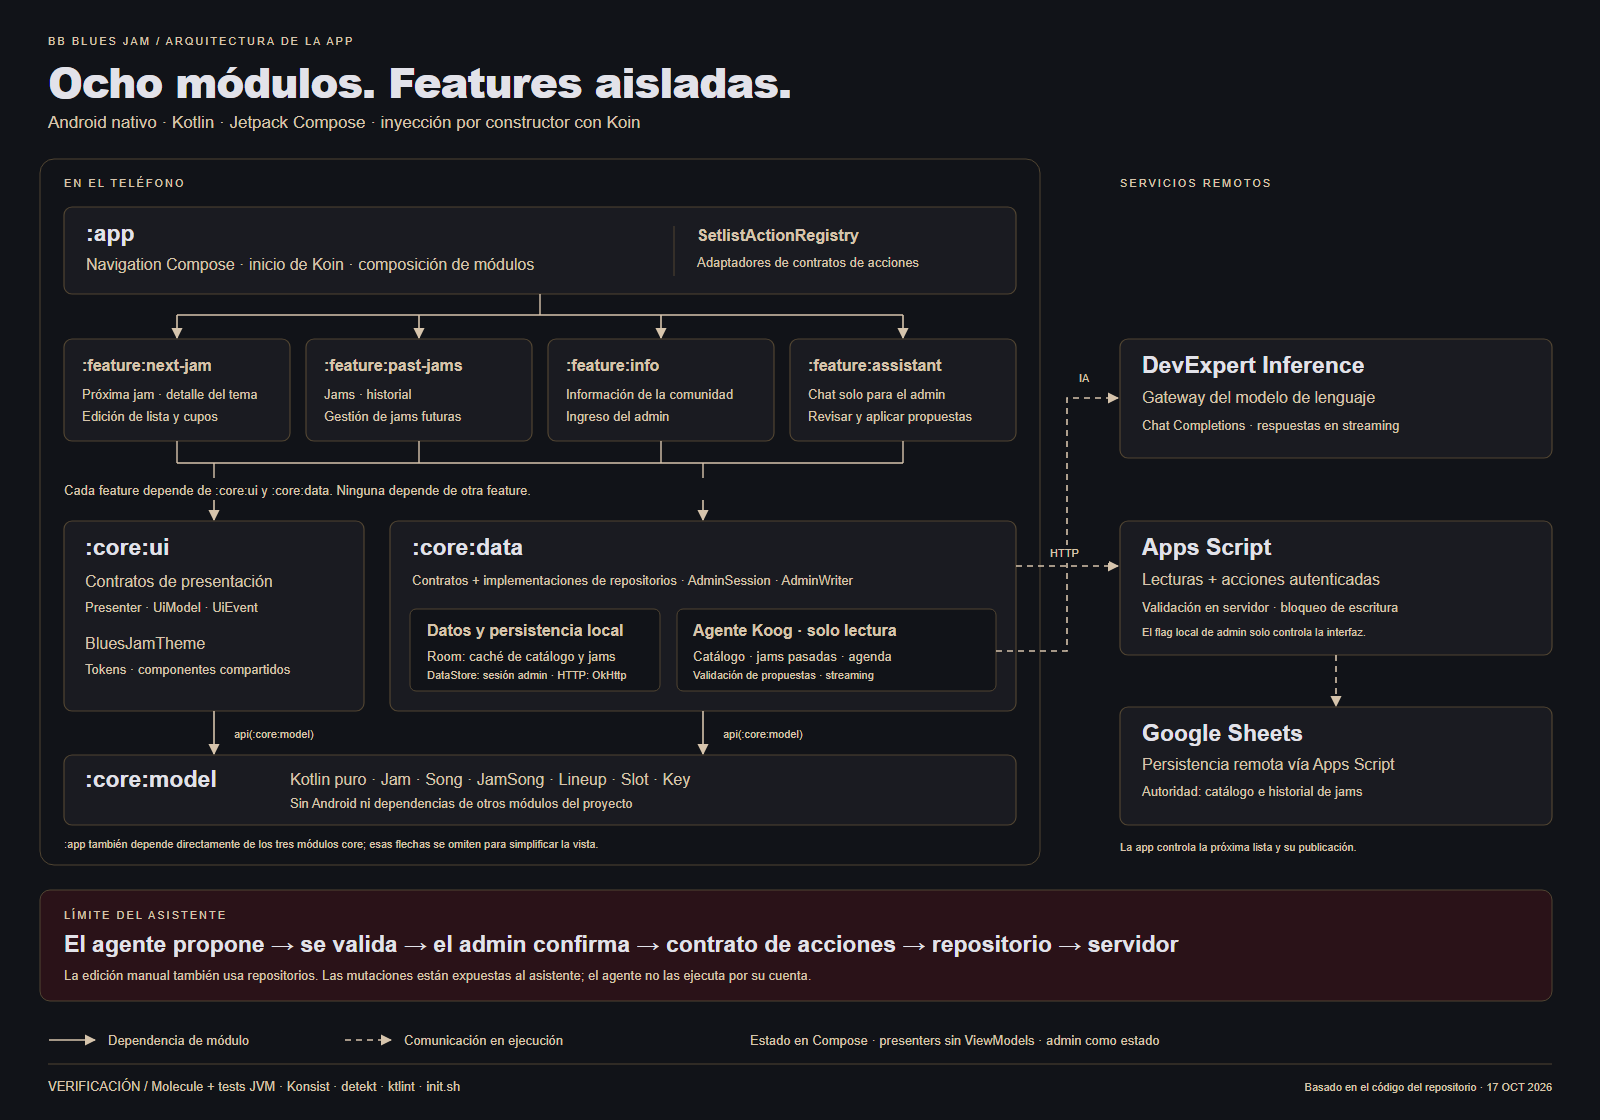
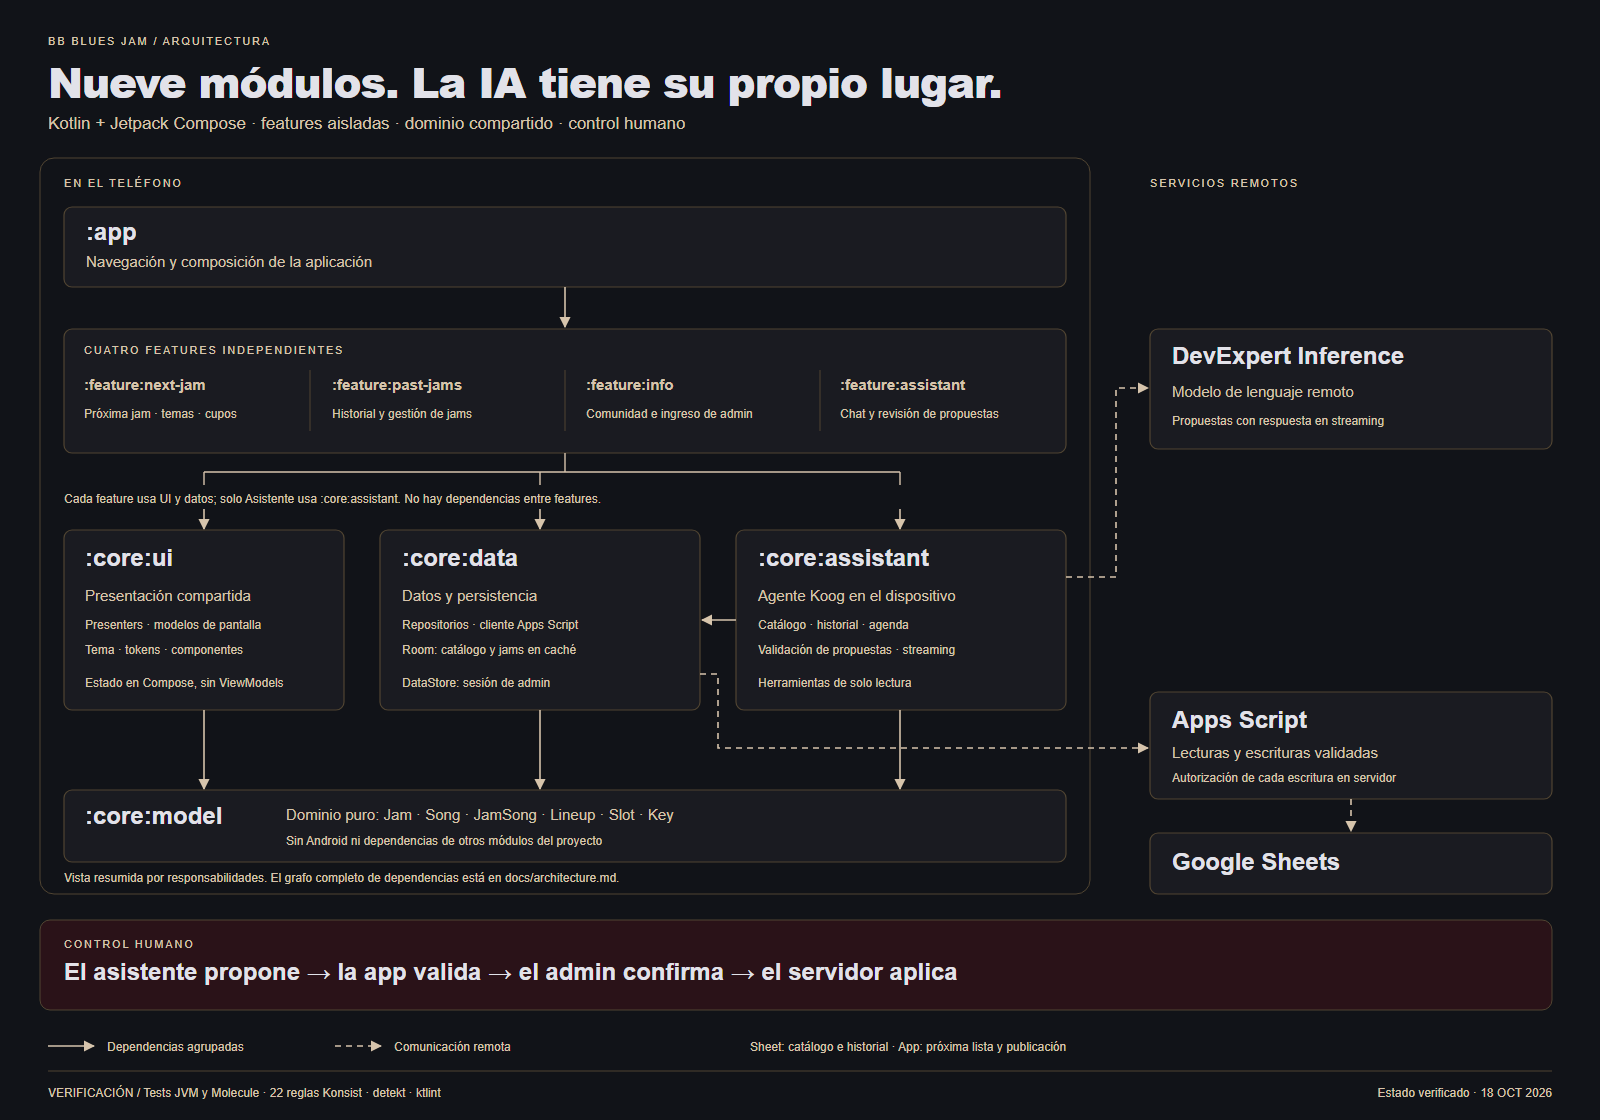
docs updates

diff --git a/PROGRESS.md b/PROGRESS.md
@@ -1,3 +1,41 @@
+## 18 October 2026 - presentation rebuilt after final code review
+
+Published successfully (owner-private) at https://bb-blues-jam-harness.ivorycow5.chatgpt.site; source 363c93f4b5eaf2f2ed63b394bbe3c3b9e101a42d, deployment appgdep_6ad530ff01e881918e899ba05e116775.
+
+Re-evaluated the source deliverable, feature graph, current nine-module architecture and final review evidence. Rebuilt the eight-slide presentation around the current cut: 75 slices (74 accepted, one scope-blocked), 74 specs, 1156 JVM testcases, 22 Konsist rules and over 240 commits. Added the final global review (nine findings, seven fix slices, feature API reduced from 122 declarations to 14), the new core:assistant module, updated ten-minute presenter notes, current feature-status chart and snapshot.json. Recreated the architecture SVG/PNG by responsibilities and principal flows; removed write-binding and DI implementation detail as requested. Slide 7 links to a bundled architecture SVG.
+
+Verification: CI=true ./init.sh exit 0, konsist/detekt/ktlint wired; JVM XML totals 1156 with one skipped live testcase. Feature counts/spec count and the exact nine-module dependency assertions passed. SVG XML parsed and headless Edge render reviewed with no text outside canvas. Presentation: node --check and diff check passed; 80 browser assertions passed across desktop/mobile, no runtime exceptions, eight printed pages. PDF and verification report regenerated. Product code and feature statuses unchanged.
+
+## 18 October 2026 - architecture artifacts regenerated
+
+Refreshed docs/architecture.md and SVG/PNG overview after remove-action-registry (44657af). Diagram now shows Koin write bindings in app, narrow core:data contracts delegating directly to SetlistRepository and no intermediate registry. Updated presentation slide 7, presenter notes and local PDF; documented all three read tools including jamSchedule. Original presentation metrics remain its historical snapshot. No product code or backlog statuses changed.
+
+Verification: Gradle dependency assertions passed for unchanged eight-module graph; removed app/actions directory absent and four current write bindings verified; SVG XML valid, rendered in headless Edge and visually reviewed with no text outside canvas. Presentation: 77 browser checks passed, no desktop/mobile horizontal overflow, no runtime exceptions, eight PDF pages. Local PDF and verification report regenerated. Publication remains on the previous version: Sites returned already-expired credentials on repeated requests, so no source push or deployment was possible; generated local artifacts are ready.
+
+## 17 October 2026 - application architecture diagrams
+
+Added docs/architecture.md with exact production-module dependency and runtime Mermaid diagrams, plus docs/diagrams/app-architecture.svg and .png for presentation. Overview reuses the app palette; documents eight product modules, isolated features, Compose presenters, Koin composition root, Room/DataStore, Apps Script/Sheets, read-only on-device Koog agent and confirmed proposal application through shared action contracts. Shows all three currently registered read tools, including jamSchedule. No app code or feature statuses changed.
+
+Verification: parsed Gradle dependencies for eight modules and asserted all four feature dependencies and core edges; SVG XML parsed; headless Edge render checked for text outside the canvas, none found, and visually reviewed. No product tests run for this documentation-only change.
+
+## 17 October 2026 - presenter notes for harness presentation
+
+Published successfully at https://bb-blues-jam-harness.ivorycow5.chatgpt.site (source 394218d10a978b860678b7568882db27265d28bc).
+
+Expanded all eight slides with a Spanish first-person presenter script, ten-minute timing plan, visual cues, transitions and source references. Full companion script: presentations/harness-ia/notas-presentador.md. Embedded notes open with N and start at the beginning; they share the audience screen, so the companion document can be used privately on a second device. Slide metrics retain the original presentation snapshot despite subsequent updates to the source deliverable. No Android code or feature statuses changed.
+
+Verification: node --check and git diff --check passed. Headless Edge passed 77 checks, including navigation and notes; desktop/mobile geometry unchanged, no runtime exceptions, eight printed pages.
+
+## 17 October 2026 - harness presentation ready
+
+Published owner-private with Sites: https://bb-blues-jam-harness.ivorycow5.chatgpt.site (deployment succeeded, version 1; source commit 2e279d5be40c3a6edb384194729bb2e26f4b7afa).
+
+Created presentations/harness-ia/: eight Spanish slides based on docs/entregable-harness-ia.md, with app tokens, bundled fonts/branding, real screenshots, diagrams, feature-status chart, keyboard/touch navigation, index, fullscreen and speaker notes. Works offline via dist/index.html; presentation.pdf has eight pages. Metrics retain the source deliverable snapshot. No Android code or backlog statuses changed.
+
+Verification: baseline CI=true ./init.sh exit 0; konsist/detekt/ktlint wired. node --check passed. Headless Edge: 77 assertions passed, eight slides, local assets/fonts, desktop at 1366x768/1440x900/1920x1080 without overflow, mobile at 390x844 without horizontal overflow, navigation/index/notes/restart, no runtime exceptions and eight-page PDF. Report: presentations/harness-ia/verification.json; checker: verify.mjs.
+
+
+
 ## 18 October 2026 - core-assistant-module accepted
 
 Code review finding 9. The Koog agent (18 files) and its 14 test files moved with `git mv` from `:core:data` (`com.bbbjam.core.data.assistant`) to the new `:core:assistant` module (`com.bbbjam.core.assistant`), which depends on `:core:model` and `:core:data` (only package lines and imports changed). New `assistantCoreModule` (`SetlistAssistant` single) listed in `startKoin`; `dataModule` lost the binding; `AssistantCredentials` stays bound in `:app`. `:core:data` has no Koog, Ktor or agent code (`rg "ai\.koog|io\.ktor" core/data` empty); `feature/assistant` and `app` depend on `:core:assistant`. `:core:assistant` uses the `bluesjam.android.data` convention, so its KSP plugin is applied with no processor (harmless; orchestrator decision, `build-logic` untouched). `AssistantLiveCallTest` now seeds a twelve-song catalog in code (it cannot read `Fixtures` or the mappers, which stay internal to `:core:data`), still opt-in and skipped by default; it was compiled, not run live, and a future live run is not byte-comparable with `docs/evidence/assistant-streaming/live-call.md`.
@@ -69,28 +107,6 @@ Organizer decision of 17 October 2026 (option A, amends D-13's second sentence).
 Verification: baseline `CI=true ./init.sh` exit 0, 1135 testcases; final exit 0, konsist/detekt/ktlint wired, 1124 testcases (1135 - 13 + 2), 19 Konsist rules unchanged. Red first: a wrong-argument mutant on the Mover binding fails the new test (`docs/evidence/remove-action-registry/red-mutant-wrong-argument.txt`), restored. Grep for the deleted names: 0 hits. Not run: device (not required).
 
 Independent validation: accepted on 17 October 2026 (gate rerun, 1124 testcases, own mutant on the mover binding red, docs and D-13 note reviewed).
-
-## 17 October 2026 - application architecture diagrams
-
-Added docs/architecture.md with exact production-module dependency and runtime Mermaid diagrams, plus docs/diagrams/app-architecture.svg and .png for presentation. Overview reuses the app palette; documents eight product modules, isolated features, Compose presenters, Koin composition root, Room/DataStore, Apps Script/Sheets, read-only on-device Koog agent and confirmed proposal application through shared action contracts. Shows all three currently registered read tools, including jamSchedule. No app code or feature statuses changed.
-
-Verification: parsed Gradle dependencies for eight modules and asserted all four feature dependencies and core edges; SVG XML parsed; headless Edge render checked for text outside the canvas, none found, and visually reviewed. No product tests run for this documentation-only change.
-
-## 17 October 2026 - presenter notes for harness presentation
-
-Published successfully at https://bb-blues-jam-harness.ivorycow5.chatgpt.site (source 394218d10a978b860678b7568882db27265d28bc).
-
-Expanded all eight slides with a Spanish first-person presenter script, ten-minute timing plan, visual cues, transitions and source references. Full companion script: presentations/harness-ia/notas-presentador.md. Embedded notes open with N and start at the beginning; they share the audience screen, so the companion document can be used privately on a second device. Slide metrics retain the original presentation snapshot despite subsequent updates to the source deliverable. No Android code or feature statuses changed.
-
-Verification: node --check and git diff --check passed. Headless Edge passed 77 checks, including navigation and notes; desktop/mobile geometry unchanged, no runtime exceptions, eight printed pages.
-
-## 17 October 2026 - harness presentation ready
-
-Published owner-private with Sites: https://bb-blues-jam-harness.ivorycow5.chatgpt.site (deployment succeeded, version 1; source commit 2e279d5be40c3a6edb384194729bb2e26f4b7afa).
-
-Created presentations/harness-ia/: eight Spanish slides based on docs/entregable-harness-ia.md, with app tokens, bundled fonts/branding, real screenshots, diagrams, feature-status chart, keyboard/touch navigation, index, fullscreen and speaker notes. Works offline via dist/index.html; presentation.pdf has eight pages. Metrics retain the source deliverable snapshot. No Android code or backlog statuses changed.
-
-Verification: baseline CI=true ./init.sh exit 0; konsist/detekt/ktlint wired. node --check passed. Headless Edge: 77 assertions passed, eight slides, local assets/fonts, desktop at 1366x768/1440x900/1920x1080 without overflow, mobile at 390x844 without horizontal overflow, navigation/index/notes/restart, no runtime exceptions and eight-page PDF. Report: presentations/harness-ia/verification.json; checker: verify.mjs.
 
 ## 17 October 2026 - admin-set-key song detail amendment accepted
 

diff --git a/docs/architecture.md b/docs/architecture.md
@@ -4,9 +4,11 @@ Verified against the module definitions, composition root, repository bindings a
 on 18 October 2026, after the code-review fixes that ended with `core-assistant-module` (commit
 `414ff69`). The presentation-ready
 overview is available as [SVG](diagrams/app-architecture.svg) and [PNG](diagrams/app-architecture.png).
-Solid arrows in that overview indicate module dependencies; dashed arrows indicate runtime HTTP
-communication. The overview groups repeated dependencies to keep it readable. The exact direct
-production-module dependencies are shown below.
+The overview presents responsibilities and principal dependencies, grouping the four features
+and repeated arrows. Dashed arrows indicate remote communication. It deliberately omits
+dependency-injection configuration and write-binding details. The exact direct production-module
+dependencies are shown below; the feature group in the overview does not mean that every feature
+depends on every core module.
 
 ## Module dependencies
 
@@ -98,7 +100,10 @@ The bindings are constructor-time SAM implementations in `appModule`: add, remov
 delegate directly to the same repository instance. They introduce no dispatcher, action DTO,
 registry or extra runtime layer. `SetlistRepository` and its implementation remain in `:core:data`;
 `:app` only selects and wires the narrow surfaces. Status, publication and jam-edit contracts are
-also bound to that repository instance. The module graph gains one module, `:core:assistant`, and one core-to-core edge, `:core:assistant -> :core:data`; every other dependency is unchanged.
+also bound to that repository instance. The extraction adds `:core:assistant`, which depends on
+`:core:model` and `:core:data`. `:app` and `:feature:assistant` also depend on the new module.
+The other three features do not. Room and DataStore remain in `:core:data`; Koog, Ktor,
+the tools, prompt, streaming parser and proposal validation belong to `:core:assistant`.
 
 The local admin state controls which UI is rendered; Apps Script authenticates and validates
 server actions. Room is a local cache, not an independent authority. The Sheet owns the catalog
